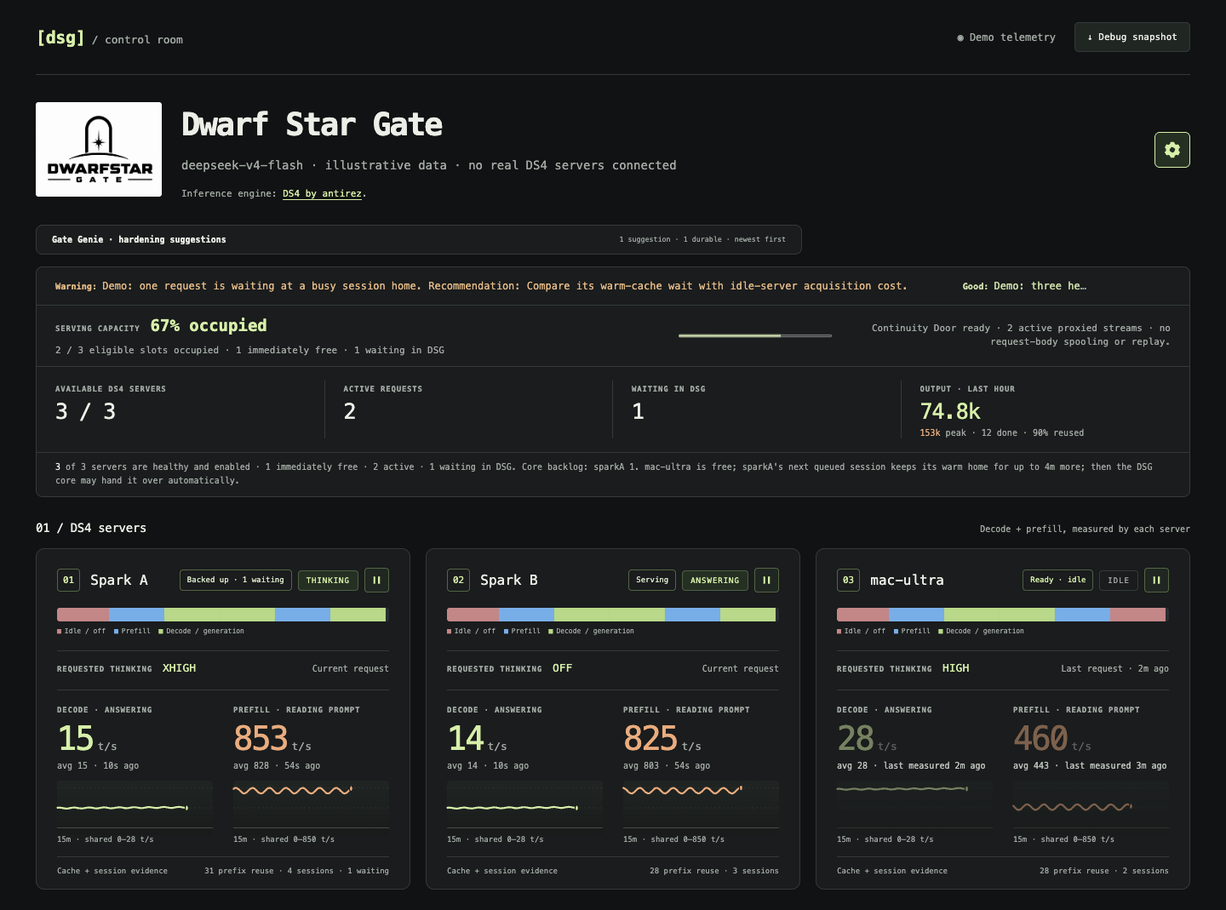
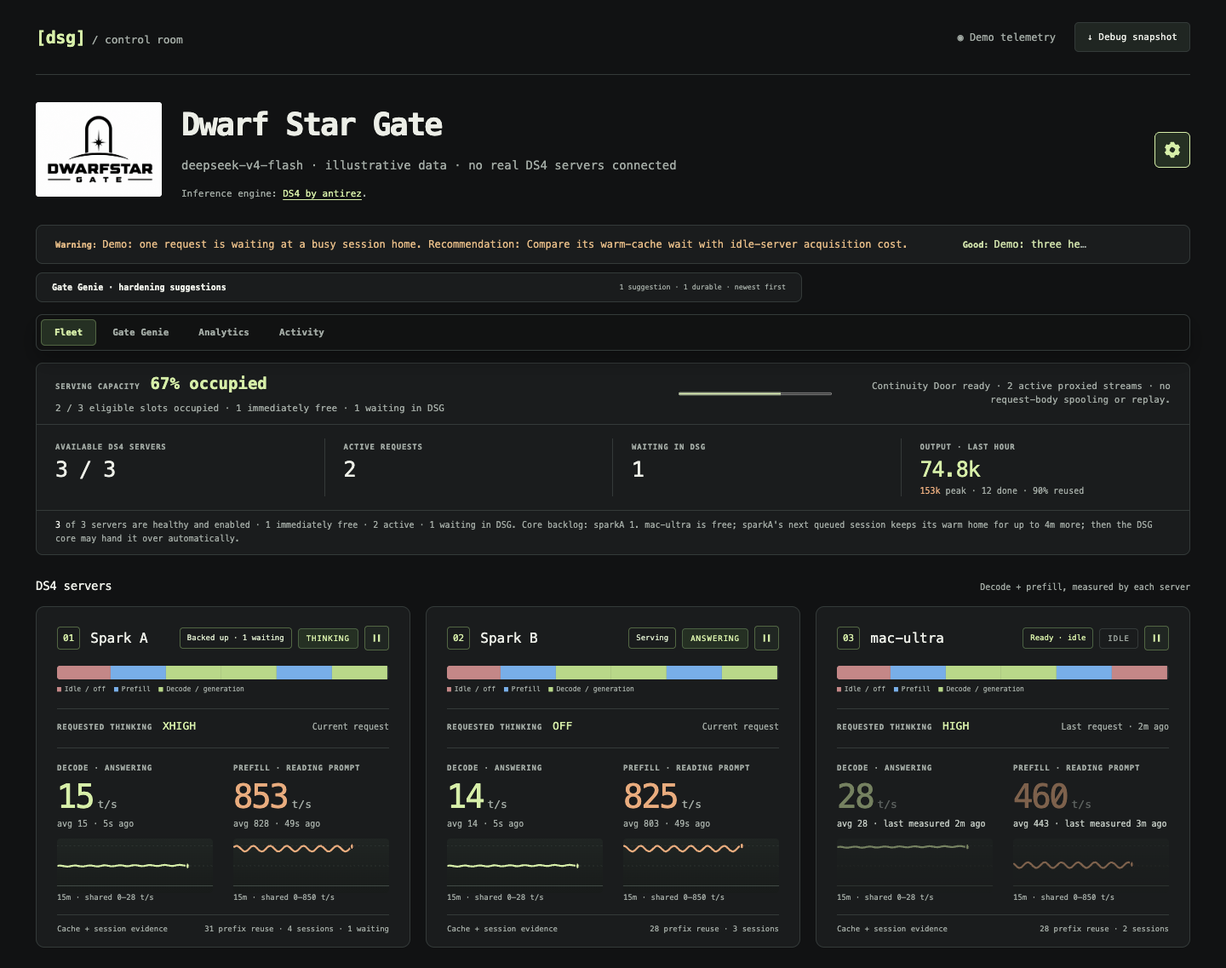
Add focused dashboard views

diff --git a/ds4-gateway/ui/index.html b/ds4-gateway/ui/index.html
@@ -6,16 +6,23 @@
 <header><a class="brand" href="/" aria-label="Dwarf Star Gate control room"><span class="brand-mark">[dsg]</span><span class="muted"> / control room</span></a><div class="header-right"><span id="connection" class="connection">Connecting</span><a class="button" href="/api/diagnostics" download>↓ Debug snapshot</a></div></header>
 <section class="intro"><img class="gate-art" src="/logo.png" width="148" height="111" alt="Dwarf Star Gate logo"><div class="intro-copy"><h1>Dwarf Star Gate</h1><p id="model" class="muted">DS4 gateway · reading live status</p><p class="engine-credit">Inference engine: <a href="https://github.com/antirez/ds4" target="_blank" rel="noopener noreferrer">DS4 by antirez</a>.</p></div><div class="read-only"><button id="server-settings" class="settings-button" type="button" title="Manage DS4 servers" aria-label="Manage DS4 servers" aria-controls="worker-management" aria-expanded="false" hidden><svg viewBox="0 0 24 24" aria-hidden="true"><path d="M9.6 2h4.8l.6 2.4 2.1 1.2 2.4-.7 2.4 4.2-1.8 1.7v2.4l1.8 1.7-2.4 4.2-2.4-.7-2.1 1.2-.6 2.4H9.6L9 19.6l-2.1-1.2-2.4.7-2.4-4.2 1.8-1.7v-2.4L2.1 9.1l2.4-4.2 2.4.7L9 4.4 9.6 2Zm2.4 6.5a3.5 3.5 0 1 0 0 7 3.5 3.5 0 0 0 0-7Z"/></svg></button><span id="control-mode">[ read only ]</span><br><small id="control-note">No model controls.</small></div></section>
 <div id="warning" class="warning" role="status" hidden></div>
-<details id="genie-hardening" class="genie-hardening" hidden><summary><span>Gate Genie · hardening suggestions</span><small id="genie-hardening-status">No evidence-backed suggestions yet</small></summary><p class="muted">Private developer hypotheses distilled from bounded DSG failure evidence. Newest first. They do not change routing, servers or configuration.</p><div id="genie-hardening-items" aria-live="polite"></div></details>
-<section class="status-deck" aria-label="Fleet overview">
 <section id="health-wire" class="health-wire" aria-label="Gate Genie fleet health headlines" data-level="unknown">
 <div class="health-wire-window" tabindex="0" aria-label="Server health headlines; focus to pause scrolling" aria-live="off"><div id="health-wire-track" class="health-wire-track"><div id="health-wire-text" class="health-wire-group">Connecting to Gate Genie…</div><div id="health-wire-copy" class="health-wire-group" aria-hidden="true"></div></div></div>
 </section>
+<details id="genie-hardening" class="genie-hardening" hidden><summary><span>Gate Genie · hardening suggestions</span><small id="genie-hardening-status">No evidence-backed suggestions yet</small></summary><p class="muted">Private developer hypotheses distilled from bounded DSG failure evidence. Newest first. They do not change routing, servers or configuration.</p><div id="genie-hardening-items" aria-live="polite"></div></details>
+<section id="learning-milestones" class="learning-milestones" aria-labelledby="learning-milestones-title" hidden><h2 id="learning-milestones-title">Gate Genie · learning milestones</h2><p class="muted">Verified prediction improvements. Kept until dismissed; dismissing does not change the model.</p><div id="learning-milestone-items" aria-live="polite"></div></section>
+<nav class="workspace-tabs" role="tablist" aria-label="Dwarf Star Gate views">
+<button id="tab-fleet" type="button" role="tab" aria-selected="true" aria-controls="view-fleet" tabindex="0" data-workspace-tab="fleet">Fleet</button>
+<button id="tab-genie" type="button" role="tab" aria-selected="false" aria-controls="view-genie" tabindex="-1" data-workspace-tab="genie">Gate Genie</button>
+<button id="tab-analytics" type="button" role="tab" aria-selected="false" aria-controls="view-analytics" tabindex="-1" data-workspace-tab="analytics">Analytics</button>
+<button id="tab-activity" type="button" role="tab" aria-selected="false" aria-controls="view-activity" tabindex="-1" data-workspace-tab="activity">Activity</button>
+</nav>
+<section id="view-fleet" class="workspace-view" role="tabpanel" aria-labelledby="tab-fleet" data-workspace-view="fleet">
+<section class="status-deck" aria-label="Fleet overview">
 <div class="capacity-panel" aria-label="Serving capacity"><div><span class="label">SERVING CAPACITY</span><strong id="capacity-value">—</strong><span id="capacity-note" class="muted">Reading available request slots</span></div><progress id="capacity-meter" max="100" value="0" aria-label="Occupied eligible request slots"></progress><small id="continuity-door-status">Continuity status unavailable.</small></div>
 <div class="overview" aria-label="Gateway status"><div title="Healthy, enabled DS4 servers / registered servers. Busy servers are included; available does not mean idle."><span class="label">AVAILABLE DS4 SERVERS</span><strong id="available">—</strong></div><div title="Requests currently dispatched by this gateway, including prefill, thinking and decode. Direct clients are not counted."><span class="label">ACTIVE REQUESTS</span><strong id="active">—</strong></div><div title="Requests already submitted to DSG and not yet dispatched. Queues still inside Pi, Hermes or another client are outside the gateway and cannot be counted here."><span class="label">WAITING IN DSG</span><strong id="queued">—</strong></div><div id="throughput-summary" class="throughput-summary" tabindex="0" title="Reading saved usage evidence"><span class="label">OUTPUT · LAST HOUR</span><strong id="throughput-output">—</strong><small id="throughput-detail"><span id="throughput-peak">—</span> peak · <span id="throughput-requests">—</span> done · <span id="throughput-cache-rate">—</span> reused</small></div></div>
 <p id="fleet-summary" class="fleet-summary" role="status">Reading fleet state</p>
 </section>
-<section id="learning-milestones" class="learning-milestones" aria-labelledby="learning-milestones-title" hidden><h2 id="learning-milestones-title">Gate Genie · learning milestones</h2><p class="muted">Verified prediction improvements. Kept until dismissed; dismissing does not change the model.</p><div id="learning-milestone-items" aria-live="polite"></div></section>
 <div id="routing-summary" class="warning routing-summary" role="status" hidden></div>
 <details id="worker-management" class="worker-management worker-management-drawer" hidden><summary>Manage DS4 servers</summary>
 <p>Add an already-running DS4 server. Registration checks its model and context, then leaves it paused. Server context, cache slots and model settings are not changed.</p>
@@ -45,9 +52,15 @@
 </form>
 <p>Remote connections use existing, host-key-verified SSH aliases and a free local tunnel port. Optional fallback aliases are tried in order when a route exits; DSG never accepts SSH options or shell commands here. Drain lets admitted requests finish. Remove is available only when paused and idle; it never stops the model server.</p>
 </details>
-<section class="section-heading"><h2>01 / DS4 servers</h2><p>Decode + prefill, measured by each server</p></section><p id="routing-message" class="worker-message" role="status" aria-live="polite"></p><section id="devices" class="devices" aria-label="DS4 servers"><p class="muted">Reading server status. Engine timings appear when logs are available.</p></section>
-<section class="insights"><article class="collection-panel"><h2>Evidence collection</h2><strong id="dataset-status">Checking collector</strong><p id="dataset-detail" class="muted"></p><p>Private numerical metadata only. No conversation text saved. Optional local embeddings are sensitive derived data. Engine/cache samples remain separate where request attribution is unknown.</p><p id="embedding-detail" class="muted">Checking embedding collection</p></article><article class="genie-panel"><h2>Gate Genie <small id="genie-mode">observation only</small></h2><p id="genie-status" role="status">Checking connection</p><div class="genie-controls"><button id="genie-toggle" class="button" type="button" disabled>Enable</button><select id="genie-source" aria-label="Gate Genie inference source" disabled><option value="primary">Dedicated preferred</option><option value="pool">DSG pool only</option></select><button id="genie-review" class="button" type="button" disabled>Review now</button></div><form id="genie-chat"><label for="genie-question">Ask about this fleet</label><div class="genie-controls"><input id="genie-question" maxlength="2000" placeholder="What should I investigate?" autocomplete="off"><button id="genie-send" type="submit" class="button" disabled>Ask</button></div></form><p class="muted">A configured Genie starts on and waits at least 5 minutes after one review finishes before starting another. A question takes priority over a routine review; an evidence-gated action review finishes first. If the dedicated provider fails or times out, one unpinned pool request may borrow any available DSG slot. Bounded recovery still requires its separate switch, and private notebook notes stay local.</p><div id="genie-reports" aria-live="polite"></div></article></section>
+<section class="section-heading"><h2>DS4 servers</h2><p>Decode + prefill, measured by each server</p></section><p id="routing-message" class="worker-message" role="status" aria-live="polite"></p><section id="devices" class="devices" aria-label="DS4 servers"><p class="muted">Reading server status. Engine timings appear when logs are available.</p></section>
+</section>
+<section id="view-genie" class="workspace-view" role="tabpanel" aria-labelledby="tab-genie" data-workspace-view="genie" hidden>
+<section class="insights genie-insights"><article class="genie-panel"><h2>Gate Genie <small id="genie-mode">observation only</small></h2><p id="genie-status" role="status">Checking connection</p><div class="genie-controls"><button id="genie-toggle" class="button" type="button" disabled>Enable</button><select id="genie-source" aria-label="Gate Genie inference source" disabled><option value="primary">Dedicated preferred</option><option value="pool">DSG pool only</option></select><button id="genie-review" class="button" type="button" disabled>Review now</button></div><form id="genie-chat"><label for="genie-question">Ask about this fleet</label><div class="genie-controls"><input id="genie-question" maxlength="2000" placeholder="What should I investigate?" autocomplete="off"><button id="genie-send" type="submit" class="button" disabled>Ask</button></div></form><p class="muted">A configured Genie starts on and waits at least 5 minutes after one review finishes before starting another. A question takes priority over a routine review; an evidence-gated action review finishes first. If the dedicated provider fails or times out, one unpinned pool request may borrow any available DSG slot. Bounded recovery still requires its separate switch, and private notebook notes stay local.</p><div id="genie-reports" aria-live="polite"></div></article></section>
 <section class="worker-management" aria-labelledby="recovery-title"><h2 id="recovery-title">DS4 service recovery</h2><p id="recovery-status" role="status">Checking recovery policy</p><div class="recovery-policy-controls"><button id="recovery-toggle" type="button" class="button" disabled>Enable automatic recovery</button><button id="recovery-handback-toggle" type="button" class="button" disabled>Disable verified profile hand-back</button></div><p>Opt-in, exactly enrolled services only. GG and the deterministic watcher share one guarded runner. One recovery at a time, one service action per failed instance or stopped epoch, 30-minute cooldown. Context, thinking, model and disk-cache settings stay unchanged. A service action loses RAM-resident caches.</p><p class="muted">Verified profile hand-back starts enabled, but remains dormant unless service recovery itself is enabled. It may adopt a repeatedly inspected changed profile only on the same enrolled machine/service, with no admitted work and either a proven replacement instance or current fatal evidence; generation and two cold-to-warm conversations must pass before readmission. A pause or agent hold always blocks it. Turning either policy off stops new automatic actions; an issued start or restart still finishes reconciliation and verification.</p><div id="recovery-workers"></div><div id="recovery-actions" aria-live="polite"></div></section>
+<details id="genie-memory" class="worker-management"><summary>Genie memory <span id="memory-status" class="muted">· checking</span></summary><p>Private operational notebook · 16 MiB ceiling · no automatic deletion. History and explicit operator notes do not grant permissions or prove current health. No inference conversations are saved.</p><button id="memory-toggle" class="button" type="button" disabled>Enable memory</button><p id="memory-detail" class="muted"></p><form id="memory-note-form" class="genie-controls"><label for="memory-note-text">Remember an operational note</label><input id="memory-note-text" maxlength="1000" placeholder="Fleet-level intent or correction — no secrets or conversation text" autocomplete="off"><button id="memory-note-save" type="submit" class="button" disabled>Save note</button><button id="memory-note-cancel" type="button" class="button" hidden>Cancel edit</button></form><p id="memory-message" role="status"></p><div id="memory-notes"></div></details>
+</section>
+<section id="view-analytics" class="workspace-view" role="tabpanel" aria-labelledby="tab-analytics" data-workspace-view="analytics" hidden>
+<section class="insights analytics-insights"><article class="collection-panel"><h2>Evidence collection</h2><strong id="dataset-status">Checking collector</strong><p id="dataset-detail" class="muted"></p><p>Private numerical metadata only. No conversation text saved. Optional local embeddings are sensitive derived data. Engine/cache samples remain separate where request attribution is unknown.</p><p id="embedding-detail" class="muted">Checking embedding collection</p></article></section>
 <details id="analytics" class="analytics-panel" open><summary>Analytics <span class="muted">· prediction accuracy</span></summary>
 <div class="analytics-heading"><p id="analytics-status" role="status">Reading saved predictions…</p><div class="analytics-controls"><label>Measure <select id="analytics-metric"><option value="queue">Baseline · queue wait ≥ 1s</option><option value="service">Baseline · server time</option><option value="xgb-admission">XGB · admission server time</option><option value="xgb-upload">XGB · after upload</option><option value="xgb-embedded">XGB · after embeddings</option><option value="xgb-remaining">XGB · remaining after 30s</option></select></label><label id="analytics-version-label" hidden>Model version <select id="analytics-version"></select></label><label>Server <select id="analytics-worker"><option value="">All servers</option></select></label></div></div>
 <div class="analytics-body"><div id="analytics-chart" class="analytics-plot"></div><div class="analytics-summary"><div id="analytics-stats" class="analytics-stats"></div><p id="analytics-detail" class="muted"></p><p id="analytics-contract">Historical baselines and XGB forecasts are evaluated separately. No model versions or forecast stages are mixed.</p></div></div>
@@ -70,11 +83,13 @@
 <details class="cache-cost-panel"><summary>Cache evidence and cost · measured components</summary><p id="cache-evidence-status" class="muted">Checking process and request attribution evidence.</p><form id="cache-cost-form" class="worker-form"><label>Server<select id="cache-cost-worker" name="worker" required></select></label><label>Cache source<select name="tier"><option value="local_disk">Local disk snapshot</option><option value="cold">Cold prefill</option><option value="hot">Hot cache</option><option value="remote">Remote snapshot</option></select></label><label>Cached prefix tokens<input name="cached_tokens" type="number" min="0" step="1" value="0" required></label><label>Total prompt tokens<input name="prompt_tokens" type="number" min="1" step="1" value="131072" required></label><button type="submit" class="button">Estimate components</button></form><p id="cache-cost-result" role="status">Hypothetical scenario, not proof that a cache exists. At least three matching size-bucket samples are required. Hot lookup and remote transfer are unmeasured; unknown is not zero.</p></details>
 <p class="muted analytics-caption">Same scale on both axes. Above the diagonal = took longer than predicted. Queue wait ends at dispatch; server time includes prefill, reasoning and answer, not just decode. <a href="https://github.com/JordiPosthumus/dwarf-star-gate/blob/main/docs/analytics.md" target="_blank" rel="noopener noreferrer">Definitions and model plan</a></p>
 </details>
-<details id="genie-memory" class="worker-management"><summary>Genie memory <span id="memory-status" class="muted">· checking</span></summary><p>Private operational notebook · 16 MiB ceiling · no automatic deletion. History and explicit operator notes do not grant permissions or prove current health. No inference conversations are saved.</p><button id="memory-toggle" class="button" type="button" disabled>Enable memory</button><p id="memory-detail" class="muted"></p><form id="memory-note-form" class="genie-controls"><label for="memory-note-text">Remember an operational note</label><input id="memory-note-text" maxlength="1000" placeholder="Fleet-level intent or correction — no secrets or conversation text" autocomplete="off"><button id="memory-note-save" type="submit" class="button" disabled>Save note</button><button id="memory-note-cancel" type="button" class="button" hidden>Cancel edit</button></form><p id="memory-message" role="status"></p><div id="memory-notes"></div></details>
+</section>
+<section id="view-activity" class="workspace-view" role="tabpanel" aria-labelledby="tab-activity" data-workspace-view="activity" hidden>
 <p id="patient-wait-status" class="muted" hidden></p>
 <details class="cache-cost-panel"><summary>Client continuity · requests not dispatched</summary><p id="continuity-status" class="muted">Checking rejection evidence</p><div id="continuity-rejections"></div></details>
-<section class="section-heading activity-heading"><h2>02 / request log</h2><span><label>Show <select id="request-filter" title="Problems exclude completed and compatibility-guidance turns. Slow means over 5 minutes active or 1 minute queued."><option value="all">All recent</option><option value="problems">Problems only</option><option value="slow">Slow only</option></select></label> · no conversation text</span></section>
+<section class="section-heading activity-heading"><h2>Request log</h2><span><label>Show <select id="request-filter" title="Problems exclude completed and compatibility-guidance turns. Slow means over 5 minutes active or 1 minute queued."><option value="all">All recent</option><option value="problems">Problems only</option><option value="slow">Slow only</option></select></label> · no conversation text</span></section>
 <div class="table-wrap"><table><thead><tr><th>Time</th><th>DS4 server</th><th>Outcome</th><th>Elapsed</th><th>Queued</th><th>Prefix reused</th><th>Output tokens</th><th>Request</th></tr></thead><tbody id="requests"><tr><td colspan="8" class="muted">Waiting for request records</td></tr></tbody></table></div>
+</section>
 <footer><p><span class="live-dot"></span> Local only · refreshes every 2s · no external assets</p><p id="updated">—</p></footer>
 <p class="upstream-credit">Original engine: <a href="https://github.com/antirez/ds4" target="_blank" rel="noopener noreferrer">antirez/ds4</a> by <a href="https://antirez.com/" target="_blank" rel="noopener noreferrer">Salvatore Sanfilippo</a> &amp; contributors. Thank you. <span>Independent companion; not an official release.</span></p>
 <details><summary>How to read these numbers</summary><p>A DS4 server is one registered model-server endpoint, not necessarily one physical machine. DSG dispatches at most one active request per registered server; other admitted requests wait in its queue. This covers prefill, thinking and decode. Direct clients are outside this limit. Available means healthy and enabled, including busy servers. Warm cache slots retain sessions; they are not extra active-request slots.</p><p>The activity strip is deliberately simple: blue is prefill, green is decode/generation (including thinking tokens), and red is idle/off. Dark gaps mean telemetry is unknown. Use the server verdict—not red alone—to distinguish a healthy idle server from a paused or unavailable one.</p><p>Large numbers are the last reported chunk speed; request averages sit underneath. Idle servers keep their last measurement, clearly dated—not a claim of current throughput. Prefill counts only newly processed tokens, not the cached prefix.</p><p>Cold starts mean zero prefix tokens reused. A resident miss can still lead to a successful disk restore. Cache counts are observed events since the displayed time (up to 15 minutes of initial log history), not a lifetime hit rate. “Prefix reuse” alone does not prove which storage tier supplied it. Gateway errors and client cancellations are kept distinct.</p><p>Debug snapshots contain operational metadata and hashed session identifiers, never prompts, images, tool arguments or answers. Review before sharing. Existing gateway logs remain untouched.</p></details>

diff --git a/ds4-gateway/ui/brand.css b/ds4-gateway/ui/brand.css
@@ -58,9 +58,11 @@ button:disabled{opacity:.4;cursor:default}input:focus-visible,select:focus-visib
 .settings-button[hidden]{display:none}.settings-button svg{width:22px;height:22px;fill:currentColor}.settings-button:hover{border-color:var(--accent);background:#253023}.settings-button:focus-visible{outline:2px solid var(--accent);outline-offset:3px}
 .status-deck{overflow:hidden;border:1px solid var(--line);border-radius:8px;background:var(--panel);margin-bottom:14px}
 .genie-hardening{margin:0 0 14px;padding:0 18px;border:1px solid var(--line);border-radius:8px;background:var(--panel)}.genie-hardening>summary{display:flex;align-items:center;justify-content:space-between;gap:18px;padding:11px 0;font-weight:700;cursor:pointer}.genie-hardening>summary small{color:var(--muted);font-weight:500;text-align:right}.genie-hardening>p{margin:0 0 10px}.genie-hardening-item{padding:10px 0;border-top:1px solid var(--line)}.genie-hardening-item:first-child{border-top:0}.genie-hardening-item strong{display:block;margin-bottom:4px}.genie-hardening-item p{margin:3px 0;white-space:pre-wrap}.genie-hardening-meta{font-size:10px;color:var(--muted)}
-.status-deck .health-wire{border:0;border-bottom:1px solid var(--line);border-radius:0;margin:0;padding:0 22px;background:transparent}
-.status-deck .health-wire-window{margin:0;min-height:44px;display:flex;align-items:center}
-.status-deck .health-wire-track{font-size:12px;line-height:1.5}.status-deck .health-wire-group{gap:6rem;padding-right:6rem}
+#health-wire{margin:0 0 10px;padding:0 22px;background:var(--panel)}
+#health-wire .health-wire-window{margin:0;min-height:44px;display:flex;align-items:center}
+#health-wire .health-wire-track{font-size:12px;line-height:1.5}#health-wire .health-wire-group{gap:6rem;padding-right:6rem}
+.workspace-tabs{position:sticky;top:0;z-index:15;display:flex;gap:3px;margin:0 0 14px;padding:5px;border:1px solid var(--line);border-radius:8px;background:var(--bg);background:color-mix(in srgb,var(--bg) 92%,transparent);box-shadow:0 10px 24px #0004;backdrop-filter:blur(12px)}
+.workspace-tabs button{min-width:0;padding:9px 16px;border:0;border-radius:5px;background:transparent;color:var(--muted);font:inherit;font-size:11px;font-weight:650;cursor:pointer}.workspace-tabs button:hover{color:var(--text);background:#202523}.workspace-tabs button[aria-selected="true"]{color:var(--accent);background:#253023;box-shadow:inset 0 0 0 1px #526643}.workspace-tabs button:focus-visible{outline:2px solid var(--accent);outline-offset:2px}.workspace-view{min-width:0}.workspace-view[hidden]{display:none}.genie-insights,.analytics-insights{grid-template-columns:1fr}.analytics-insights{margin-top:0}.analytics-insights article{padding:16px 20px}
 .status-deck .capacity-panel{display:grid;grid-template-columns:minmax(400px,auto) minmax(180px,1fr) auto;align-items:center;gap:18px;border:0;border-bottom:1px solid var(--line);border-radius:0;margin:0;padding:12px 22px;background:transparent}
 .status-deck .capacity-panel>div{gap:12px}.status-deck .capacity-panel strong{font-size:19px}.status-deck .capacity-panel progress{width:100%;height:7px;margin:0}.status-deck .capacity-panel small{max-width:420px;line-height:1.45;text-align:right;color:var(--muted)}
 .status-deck .overview{border:0;border-radius:0;background:transparent;padding:16px 0}.status-deck .overview>div{padding:0 22px}.status-deck .overview strong{font-size:25px;margin-top:6px}
@@ -73,6 +75,6 @@ button:disabled{opacity:.4;cursor:default}input:focus-visible,select:focus-visib
 .chart{height:64px;margin:5px 0 0;border-radius:4px;background:linear-gradient(180deg,#202523 0%,#181b1a 100%)}.chart polyline{stroke-width:2.2;stroke-linecap:round;stroke-linejoin:round}.chart .chart-grid{stroke:#3b423f;stroke-width:.55;stroke-dasharray:3 5}.chart .chart-baseline{stroke:#4a524e;stroke-width:.8}.chart .chart-point,.chart .chart-last{fill:var(--accent);stroke:var(--panel);stroke-width:1.2;vector-effect:non-scaling-stroke}.chart.prefill .chart-point,.chart.prefill .chart-last{fill:var(--orange)}.chart-caption{margin:5px 0 0;white-space:nowrap}
 .device-evidence{max-width:none;margin:15px 0 0;padding-top:11px;border-top:1px solid var(--line);font-size:9px}.device-evidence summary{display:flex;justify-content:space-between;gap:12px;color:var(--muted);list-style-position:inside}.device-evidence summary span:last-child{text-align:right;overflow:hidden;text-overflow:ellipsis;white-space:nowrap}.device-evidence[open] summary{margin-bottom:12px;color:var(--text)}.device-evidence .prompt-note{margin-bottom:10px}.device-evidence .cache{padding:12px 0}.device-evidence .cache-note{margin-bottom:10px}.device-evidence .device-foot{padding-top:10px}
 @media(max-width:900px){.status-deck .capacity-panel{grid-template-columns:1fr}.status-deck .capacity-panel small{text-align:left;max-width:none}.device-identity{align-items:flex-start;flex-direction:column;gap:6px}}
-@media(max-width:750px){.status-deck .overview{grid-template-columns:repeat(2,1fr)}.status-deck .overview>div:nth-child(2){border-right:0}.status-deck .capacity-panel,.status-deck .health-wire,.status-deck .fleet-summary{padding-left:16px;padding-right:16px}.device-evidence summary span:last-child{display:none}}
+@media(max-width:750px){.status-deck .overview{grid-template-columns:repeat(2,1fr)}.status-deck .overview>div:nth-child(2){border-right:0}.status-deck .capacity-panel,.status-deck .fleet-summary,#health-wire{padding-left:16px;padding-right:16px}.workspace-tabs{overflow-x:auto;scrollbar-width:none}.workspace-tabs::-webkit-scrollbar{display:none}.workspace-tabs button{flex:1 0 auto;padding-inline:13px}.device-evidence summary span:last-child{display:none}}
 @media(max-width:750px){.genie-hardening>summary{align-items:flex-start;flex-direction:column;gap:3px}.genie-hardening>summary small{text-align:left}}
 @media(max-width:750px){.read-only.controls-available{display:block}}

diff --git a/ds4-gateway/ui/ui.js b/ds4-gateway/ui/ui.js
@@ -583,10 +583,36 @@ function renderGenieReports(reports = []) {
     if (!keep.has(node.dataset.reportId) && !node.open && !node.contains(document.activeElement)) node.remove();
   }
 }
+const workspaceNames=['fleet','genie','analytics','activity'];
+function activateWorkspaceTab(requested,{focus=false,updateHash=false}={}) {
+  const name=workspaceNames.includes(requested)?requested:'fleet';
+  for(const button of document.querySelectorAll('[data-workspace-tab]')){
+    const selected=button.dataset.workspaceTab===name;
+    button.setAttribute('aria-selected',String(selected));button.tabIndex=selected?0:-1;
+  }
+  for(const panel of document.querySelectorAll('[data-workspace-view]'))panel.hidden=panel.dataset.workspaceView!==name;
+  if(updateHash&&globalThis.history?.replaceState){
+    const url=new URL(globalThis.location.href);url.hash=name==='fleet'?'':name;globalThis.history.replaceState(null,'',url);
+  }
+  if(focus)document.querySelector(`[data-workspace-tab="${name}"]`)?.focus({preventScroll:true});
+  return name;
+}
+function setupWorkspaceTabs(){
+  const list=document.querySelector('.workspace-tabs'),buttons=[...list.querySelectorAll('[data-workspace-tab]')];
+  activateWorkspaceTab(globalThis.location?.hash?.slice(1));
+  list.addEventListener('click',event=>{const button=event.target.closest('[data-workspace-tab]');if(button)activateWorkspaceTab(button.dataset.workspaceTab,{updateHash:true});});
+  list.addEventListener('keydown',event=>{
+    const current=buttons.indexOf(event.target.closest('[data-workspace-tab]'));if(current<0)return;
+    const next=event.key==='Home'?0:event.key==='End'?buttons.length-1:event.key==='ArrowRight'||event.key==='ArrowDown'?(current+1)%buttons.length:event.key==='ArrowLeft'||event.key==='ArrowUp'?(current+buttons.length-1)%buttons.length:null;
+    if(next===null)return;event.preventDefault();activateWorkspaceTab(buttons[next].dataset.workspaceTab,{focus:true,updateHash:true});
+  });
+  globalThis.addEventListener?.('hashchange',()=>activateWorkspaceTab(globalThis.location.hash.slice(1)));
+}
 poll();
+setupWorkspaceTabs();
 $('request-filter').addEventListener('change',()=>{requestFilter=$('request-filter').value;renderRequests(wireSnapshot?.events??[]);});
-function openServerSettings({focus=false}={}){const panel=$('worker-management');panel.open=true;$('server-settings').setAttribute('aria-expanded','true');panel.scrollIntoView({behavior:'smooth',block:'start'});if(focus)panel.querySelector('input[name="id"]')?.focus({preventScroll:true});}
-$('server-settings').addEventListener('click',()=>{const panel=$('worker-management');if(panel.open){panel.open=false;$('server-settings').setAttribute('aria-expanded','false');}else openServerSettings();});
+function openServerSettings({focus=false}={}){activateWorkspaceTab('fleet',{updateHash:true});const panel=$('worker-management');panel.open=true;$('server-settings').setAttribute('aria-expanded','true');panel.scrollIntoView({behavior:'smooth',block:'start'});if(focus)panel.querySelector('input[name="id"]')?.focus({preventScroll:true});}
+$('server-settings').addEventListener('click',()=>{const panel=$('worker-management'),visible=!$('view-fleet').hidden;if(visible&&panel.open){panel.open=false;$('server-settings').setAttribute('aria-expanded','false');}else openServerSettings();});
 $('worker-management').addEventListener('toggle',()=>{$('server-settings').setAttribute('aria-expanded',String($('worker-management').open));});
 $('devices').addEventListener('click',event=>{if(!event.target.closest('[data-add-first]'))return;openServerSettings({focus:true});});
 $('analytics-metric').addEventListener('change',renderAnalytics);

diff --git a/docs/screenshots.md b/docs/screenshots.md
@@ -4,21 +4,23 @@ Refreshed 2026-09-04 from the checked-in synthetic demo and current UI assets.
 These are actual browser captures of fictional data, not edited production
 screenshots, benchmark results, a live incident report or a promoted model.
 
-- `dashboard-overview.png`: branding, the compact Gate Genie hardening-suggestion
-  disclosure, the unified fleet panel, mixed-server
+- `dashboard-overview.png`: branding, persistent health wire, compact cross-view
+  hardening notice, focused navigation, the unified fleet panel, mixed-server
   activity, aligned rounded speeds, requested thinking, hourly fleet throughput
-  and the ready Continuity Door contract. Detailed cache/session evidence is
-  folded into each server card.
+  and the ready Continuity Door
+  contract. Detailed cache/session evidence is folded into each server card.
 - `overview-mobile.png`: the compact status row at 390px, including hourly output,
   peak, completed requests and prompt reuse.
 - `worker-management.png`: the gear-opened private fleet controls, recommended
   Spark profile, 20,000-hour queue allowance and one synthetic exact
   queued-handover offer with its cache-locality warning.
-- `dashboard-genie.png`: local collection/embedding status and an open assessment.
-- `dashboard-cache-and-requests.png`: stage-specific XGB chart, candidate lifecycle,
-  recipe selector, calibration skip status, cache calculator, notebook/continuity
-  disclosures and request log.
-  The filename is retained for existing links.
+- `dashboard-genie.png`: an open assessment, recovery controls and the private
+  Gate Genie notebook.
+- `dashboard-analytics.png`: local collection/embedding status, stage-specific XGB
+  chart, candidate lifecycle, recipe selector, calibration skip status and cache
+  acquisition calculator.
+- `dashboard-activity.png`: Continuity Door rejection evidence and the filtered
+  request log, separated from the live fleet view.
 - `genie-memory.png`: synthetic worker incident/recovery history and an explicit
   operator note, captured from the real notebook implementation in temporary storage.
 
@@ -50,7 +52,8 @@ checks persistence by restarting only its synthetic dashboard, then removes that
 test directory. It never reads or modifies the deployed notebook.
 
 The capture uses 1440px width, UTC, en-US and reduced motion so headlines are
-readable. It checks the real logo, exact title, populated cards, no activated
+readable. It checks the real logo, exact title, accessible tab and keyboard state,
+populated cards, no activated
 predictor, synthetic labels even when selecting XGB, report persistence across
 a real refresh, and a 390px mobile viewport without page-level horizontal overflow.
 Timestamps and platform fonts may differ; this is a content/privacy smoke test,

diff --git a/README.md b/README.md
@@ -111,8 +111,8 @@ routing authority unless it passes the independent holdout and future-traffic
 gates. [Calibration preflight](docs/calibration.md) skips without a proven
 cache-preserving path. An opt-in [persistent Genie notebook](docs/genie-memory.md)
 records worker-state changes, incident/recovery references, explicit operator
-notes and evidence-gated developer hardening suggestions. A compact panel at the
-top of the control room lists the newest suggestion first. Genie may describe a
+notes and evidence-gated developer hardening suggestions. A compact notice above
+the focused views lists the newest suggestion first. Genie may describe a
 test or design improvement only for a deterministic, privacy-bounded failure
 candidate selected by DSG code; the suggestion is a hypothesis, cannot modify the
 gateway or servers and never includes inference content. It survives dashboard
@@ -205,6 +205,10 @@ the encoder runs only when explicitly configured, without cloud inference.
 ## Dashboard
 
 Terminal-inspired presentation, per-worker measurements, and a replaceable logo.
+Four focused views keep the control room compact: **Fleet** for live capacity and
+server cards, **Gate Genie** for reports and recovery, **Analytics** for evidence
+and predictors, and **Activity** for continuity and request history. The health
+wire remains visible above every view so a focused page does not hide an incident.
 These captures show the current interface with **synthetic demo data**, not live
 sessions, measured benchmarks or proof of model accuracy. The example fleet mixes
 Sparks and a Mac; all displayed servers, reports and predictions are fictional.
@@ -213,11 +217,13 @@ See [screenshot reproduction and checks](docs/screenshots.md).
 ![Dwarf Star Gate dashboard with illustrative telemetry](docs/images/dashboard-overview.png)
 
 <details>
-<summary>Gate Genie, evidence collection and analytics</summary>
+<summary>Gate Genie, analytics and activity views</summary>
 
-![Synthetic Gate Genie assessment and local embedding collection](docs/images/dashboard-genie.png)
+![Synthetic Gate Genie assessment and recovery view](docs/images/dashboard-genie.png)
 
-![Synthetic XGB accuracy, validation controls, cache calculator and request log](docs/images/dashboard-cache-and-requests.png)
+![Synthetic evidence collection, XGB accuracy and cache calculator](docs/images/dashboard-analytics.png)
+
+![Synthetic continuity evidence and request history](docs/images/dashboard-activity.png)
 
 </details>
 

diff --git a/CHANGELOG.md b/CHANGELOG.md
@@ -1,5 +1,20 @@
 # Changelog
 
+## Focused dashboard views
+
+- Replaced the increasingly long single dashboard flow with four persistent,
+  accessible views: Fleet, Gate Genie, Analytics and Activity. Fleet remains the
+  default; the compact health wire, hardening notices and dismissible learning
+  milestones remain global so changing views cannot hide urgent evidence.
+- Added roving keyboard focus, Arrow/Home/End navigation and stable URL hashes.
+  Hidden views continue receiving the same polling data, so switching views does
+  not reset reports, selected predictors or request evidence. The settings gear
+  always returns to Fleet before opening server controls.
+- Split the public synthetic browser captures by view and extended the browser
+  check across tab state, polling, settings, desktop and mobile layouts. This is
+  presentation-only; gateway routing, recovery permissions and DS4 settings are
+  unchanged.
+
 ## Cross-platform CI signal hardening
 
 - Fixed two test-harness defects exposed by GitHub's Ubuntu runner. Launchd

diff --git a/WORKLOG.md b/WORKLOG.md
@@ -10,6 +10,12 @@ For unfinished work, see the [roadmap](docs/roadmap.md).
 
 ## Recent reliability and intelligence sprint — 2026-09-03 to 2026-09-04
 
+- **Split the growing control room into four focused views.** Fleet remains the
+  default; Gate Genie, Analytics and Activity each get a stable tab while the
+  health wire and important notices stay visible everywhere. Keyboard navigation,
+  URL hashes, live polling state, mobile overflow and the settings-gear handoff are browser-tested,
+  with fresh synthetic screenshots and no change to routing or model servers.
+
 - **Restored a trustworthy cross-platform CI signal.** Launchd recovery tests
   now preserve the runner's real file-owner identity while checking the exact
   per-user launch target, and the worker-free shadow test verifies its durable

diff --git a/docs/analytics.md b/docs/analytics.md
@@ -1,8 +1,8 @@
 # Analytics and the latency-model plan
 
-The local dashboard has a compact **Analytics** panel below the fleet, Gate Genie
-and service-recovery panels, just above the request log. It evaluates predictions
-already saved by the optional [routing shadow](routing-shadow.md) and
+The local dashboard has a focused **Analytics** view, separate from live fleet,
+Gate Genie and request-history controls. It evaluates predictions already saved
+by the optional [routing shadow](routing-shadow.md) and
 [predictor lifecycle](predictor-lifecycle.md). The reader does not fit models or
 change placement. Separate controls in the panel manage the bounded trainer,
 validation policy and optional new-session placement. With collection alone,

diff --git a/docs/genie-powers-plan.md b/docs/genie-powers-plan.md
@@ -153,8 +153,8 @@ a new PID alone is not a successful recovery receipt.
 
 ## UI: current controls versus proposed controls
 
-**Current:** the Gate Genie panel beside Evidence collection has Enable / Turn
-off, Dedicated server / DSG pool fallback, Review now and Ask. Once configured,
+**Current:** the focused Gate Genie view has Enable / Turn off, Dedicated server /
+DSG pool fallback, Review now and Ask. Once configured,
 it starts on after a dashboard restart unless private config sets `enabled:false`.
 The dropdown selects already configured endpoints;
 it is not a URL editor. Endpoint/model/auth/tunnel settings live in the private

diff --git a/docs/cache-cost.md b/docs/cache-cost.md
@@ -1,7 +1,7 @@
 # Cache acquisition: measured component baseline
 
 **Implemented, read-only, unvalidated. No routing or cache mutation.** The
-Analytics panel includes a cache-cost calculator for one hypothetical server,
+Analytics view includes a cache-cost calculator for one hypothetical server,
 cache tier, cached-prefix length and total prompt length. It uses the existing
 DS4 timing feed; it does not call an LLM, copy a cache, or run a benchmark.
 
